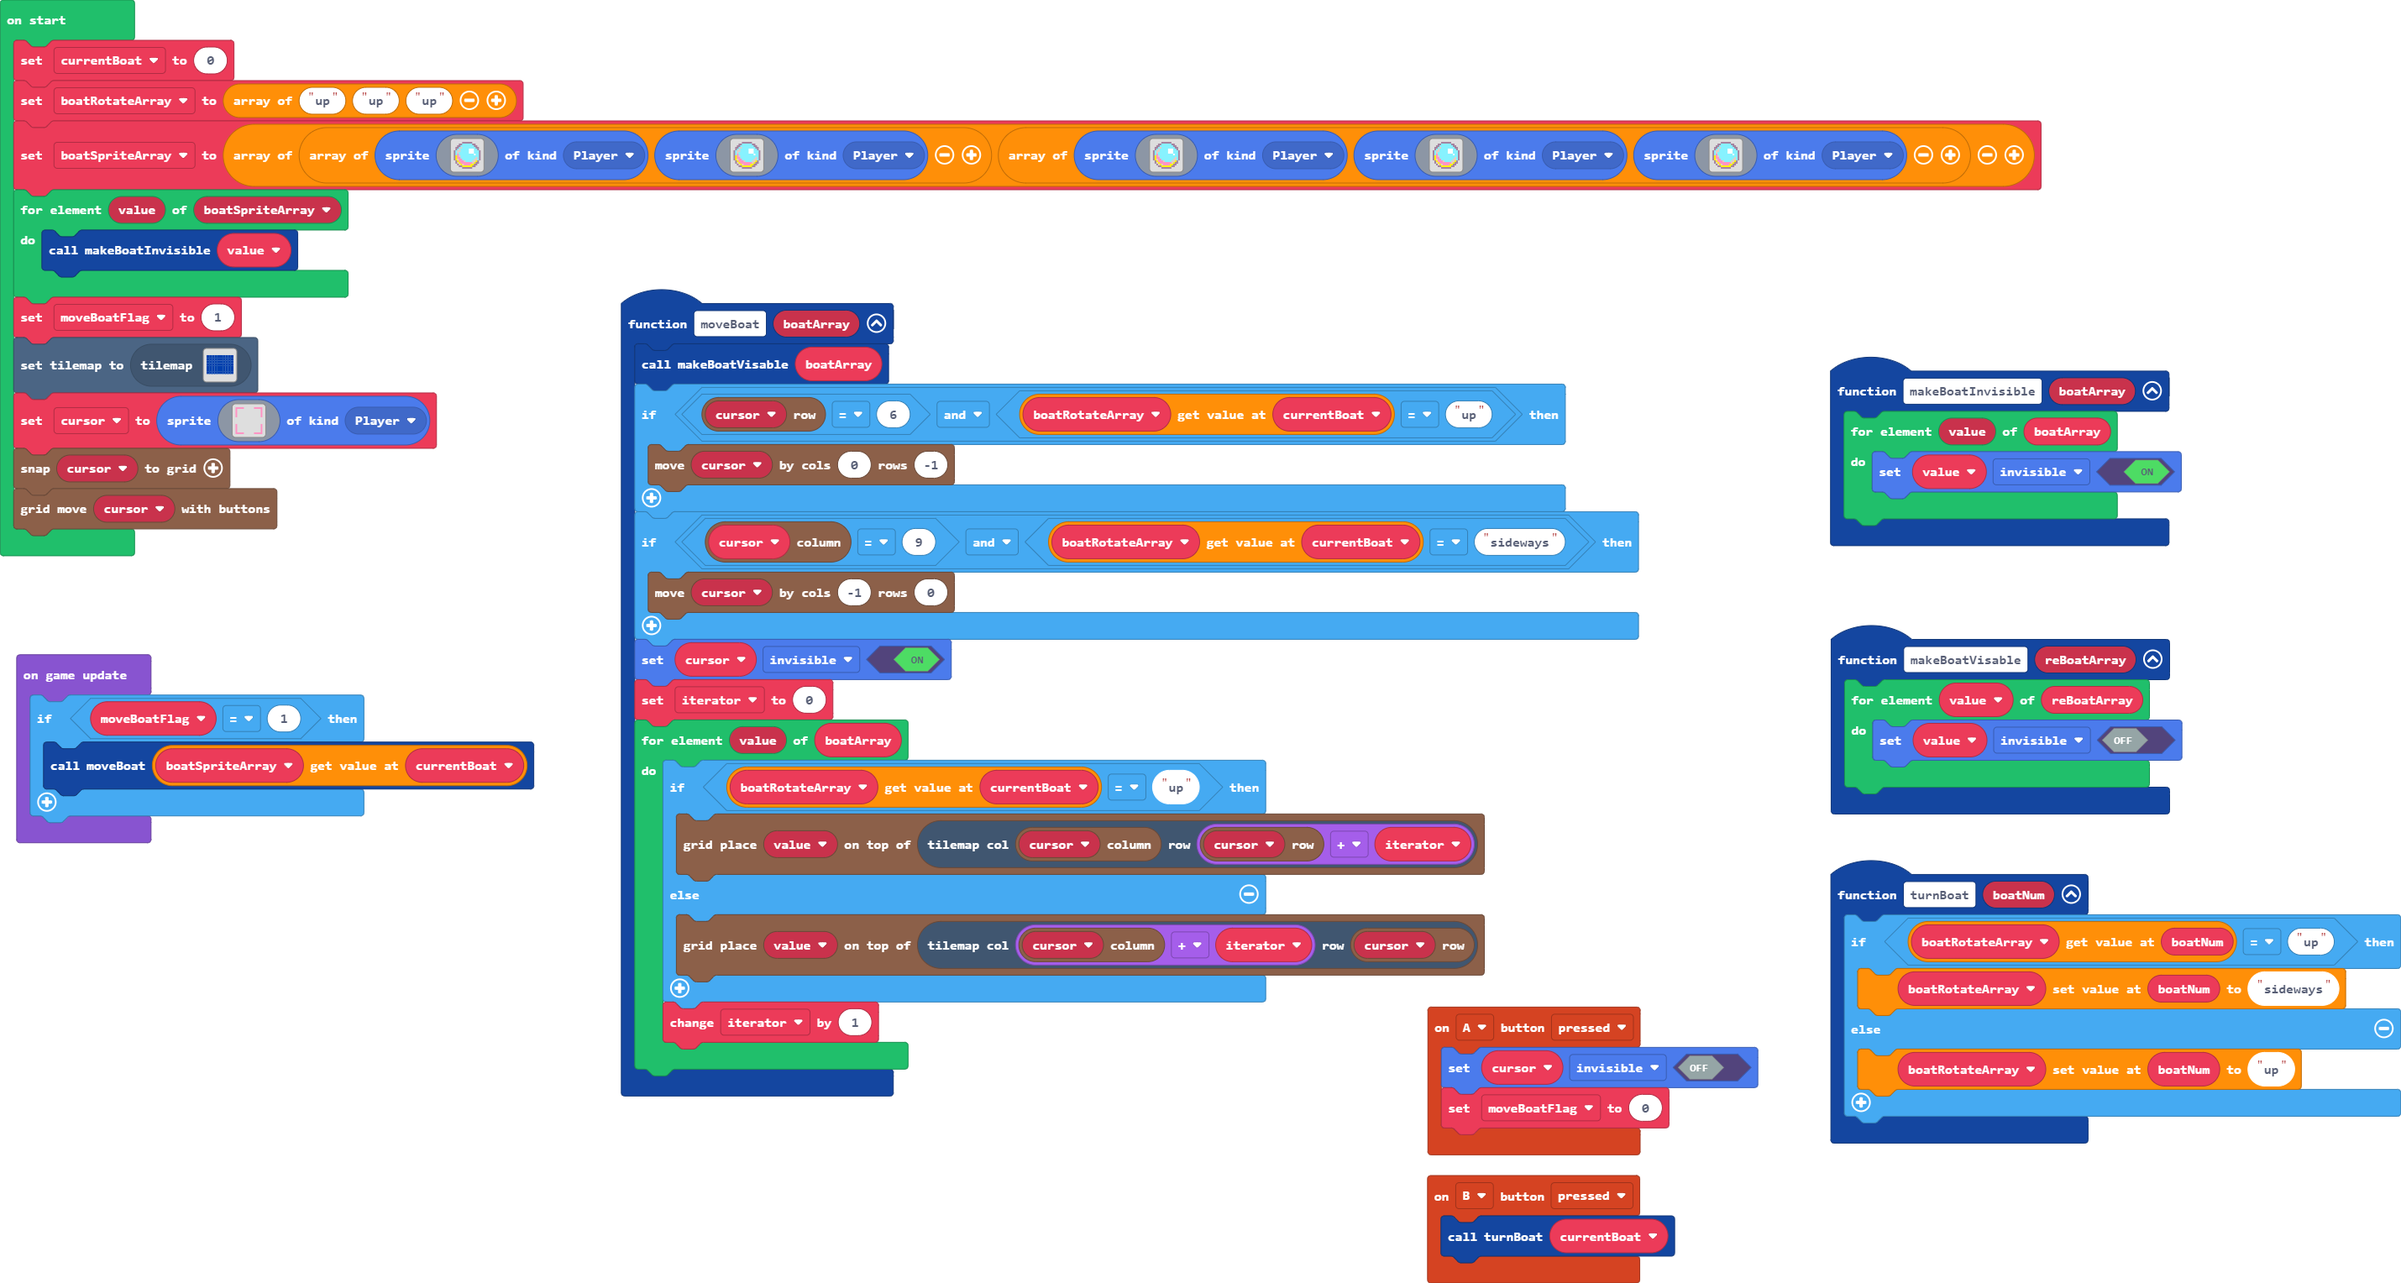
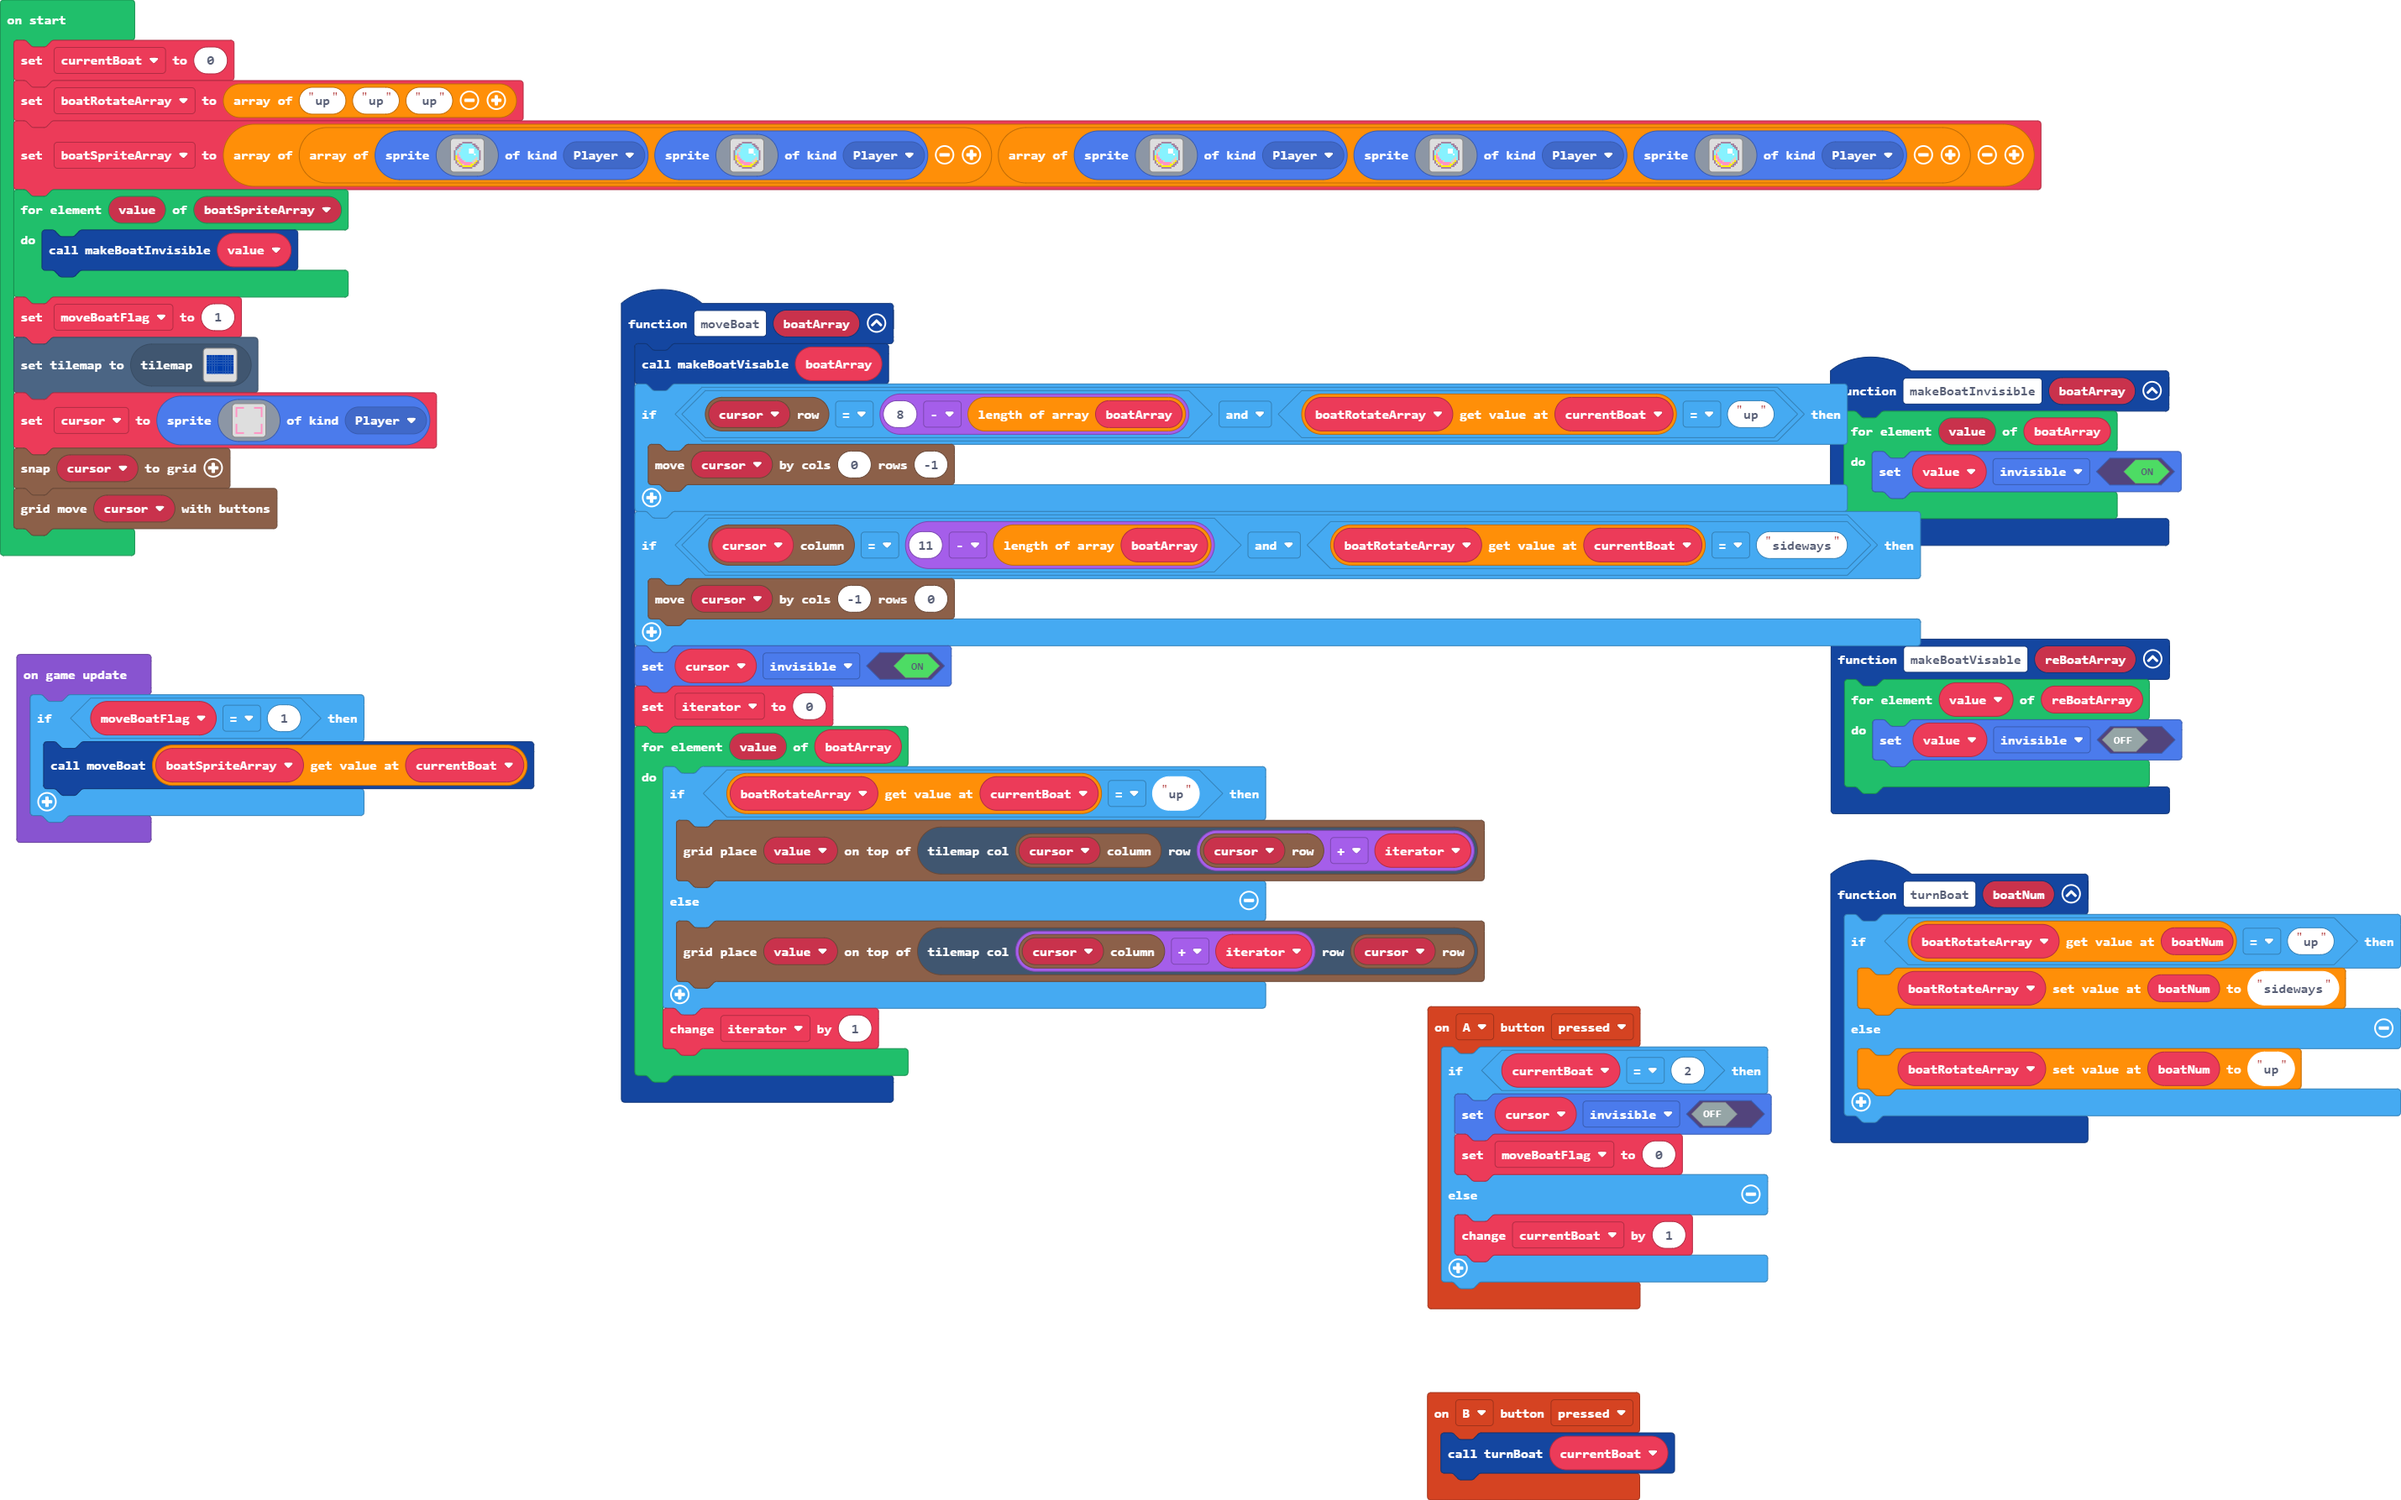
boat "1" moves

diff --git a/main.ts b/main.ts
@@ -2,8 +2,12 @@ controller.B.onEvent(ControllerButtonEvent.Pressed, function () {
     turnBoat(currentBoat)
 })
 controller.A.onEvent(ControllerButtonEvent.Pressed, function () {
-    cursor.setFlag(SpriteFlag.Invisible, false)
-    moveBoatFlag = 0
+    if (currentBoat == 2) {
+        cursor.setFlag(SpriteFlag.Invisible, false)
+        moveBoatFlag = 0
+    } else {
+        currentBoat += 1
+    }
 })
 function makeBoatVisable (reBoatArray: Sprite[]) {
     for (let value of reBoatArray) {
@@ -12,10 +16,10 @@ function makeBoatVisable (reBoatArray: Sprite[]) {
 }
 function moveBoat (boatArray: any[]) {
     makeBoatVisable(boatArray)
-    if (grid.spriteRow(cursor) == 6 && boatRotateArray[currentBoat] == "up") {
+    if (grid.spriteRow(cursor) == 8 - boatArray.length && boatRotateArray[currentBoat] == "up") {
         grid.move(cursor, 0, -1)
     }
-    if (grid.spriteCol(cursor) == 9 && boatRotateArray[currentBoat] == "sideways") {
+    if (grid.spriteCol(cursor) == 11 - boatArray.length && boatRotateArray[currentBoat] == "sideways") {
         grid.move(cursor, -1, 0)
     }
     cursor.setFlag(SpriteFlag.Invisible, true)
